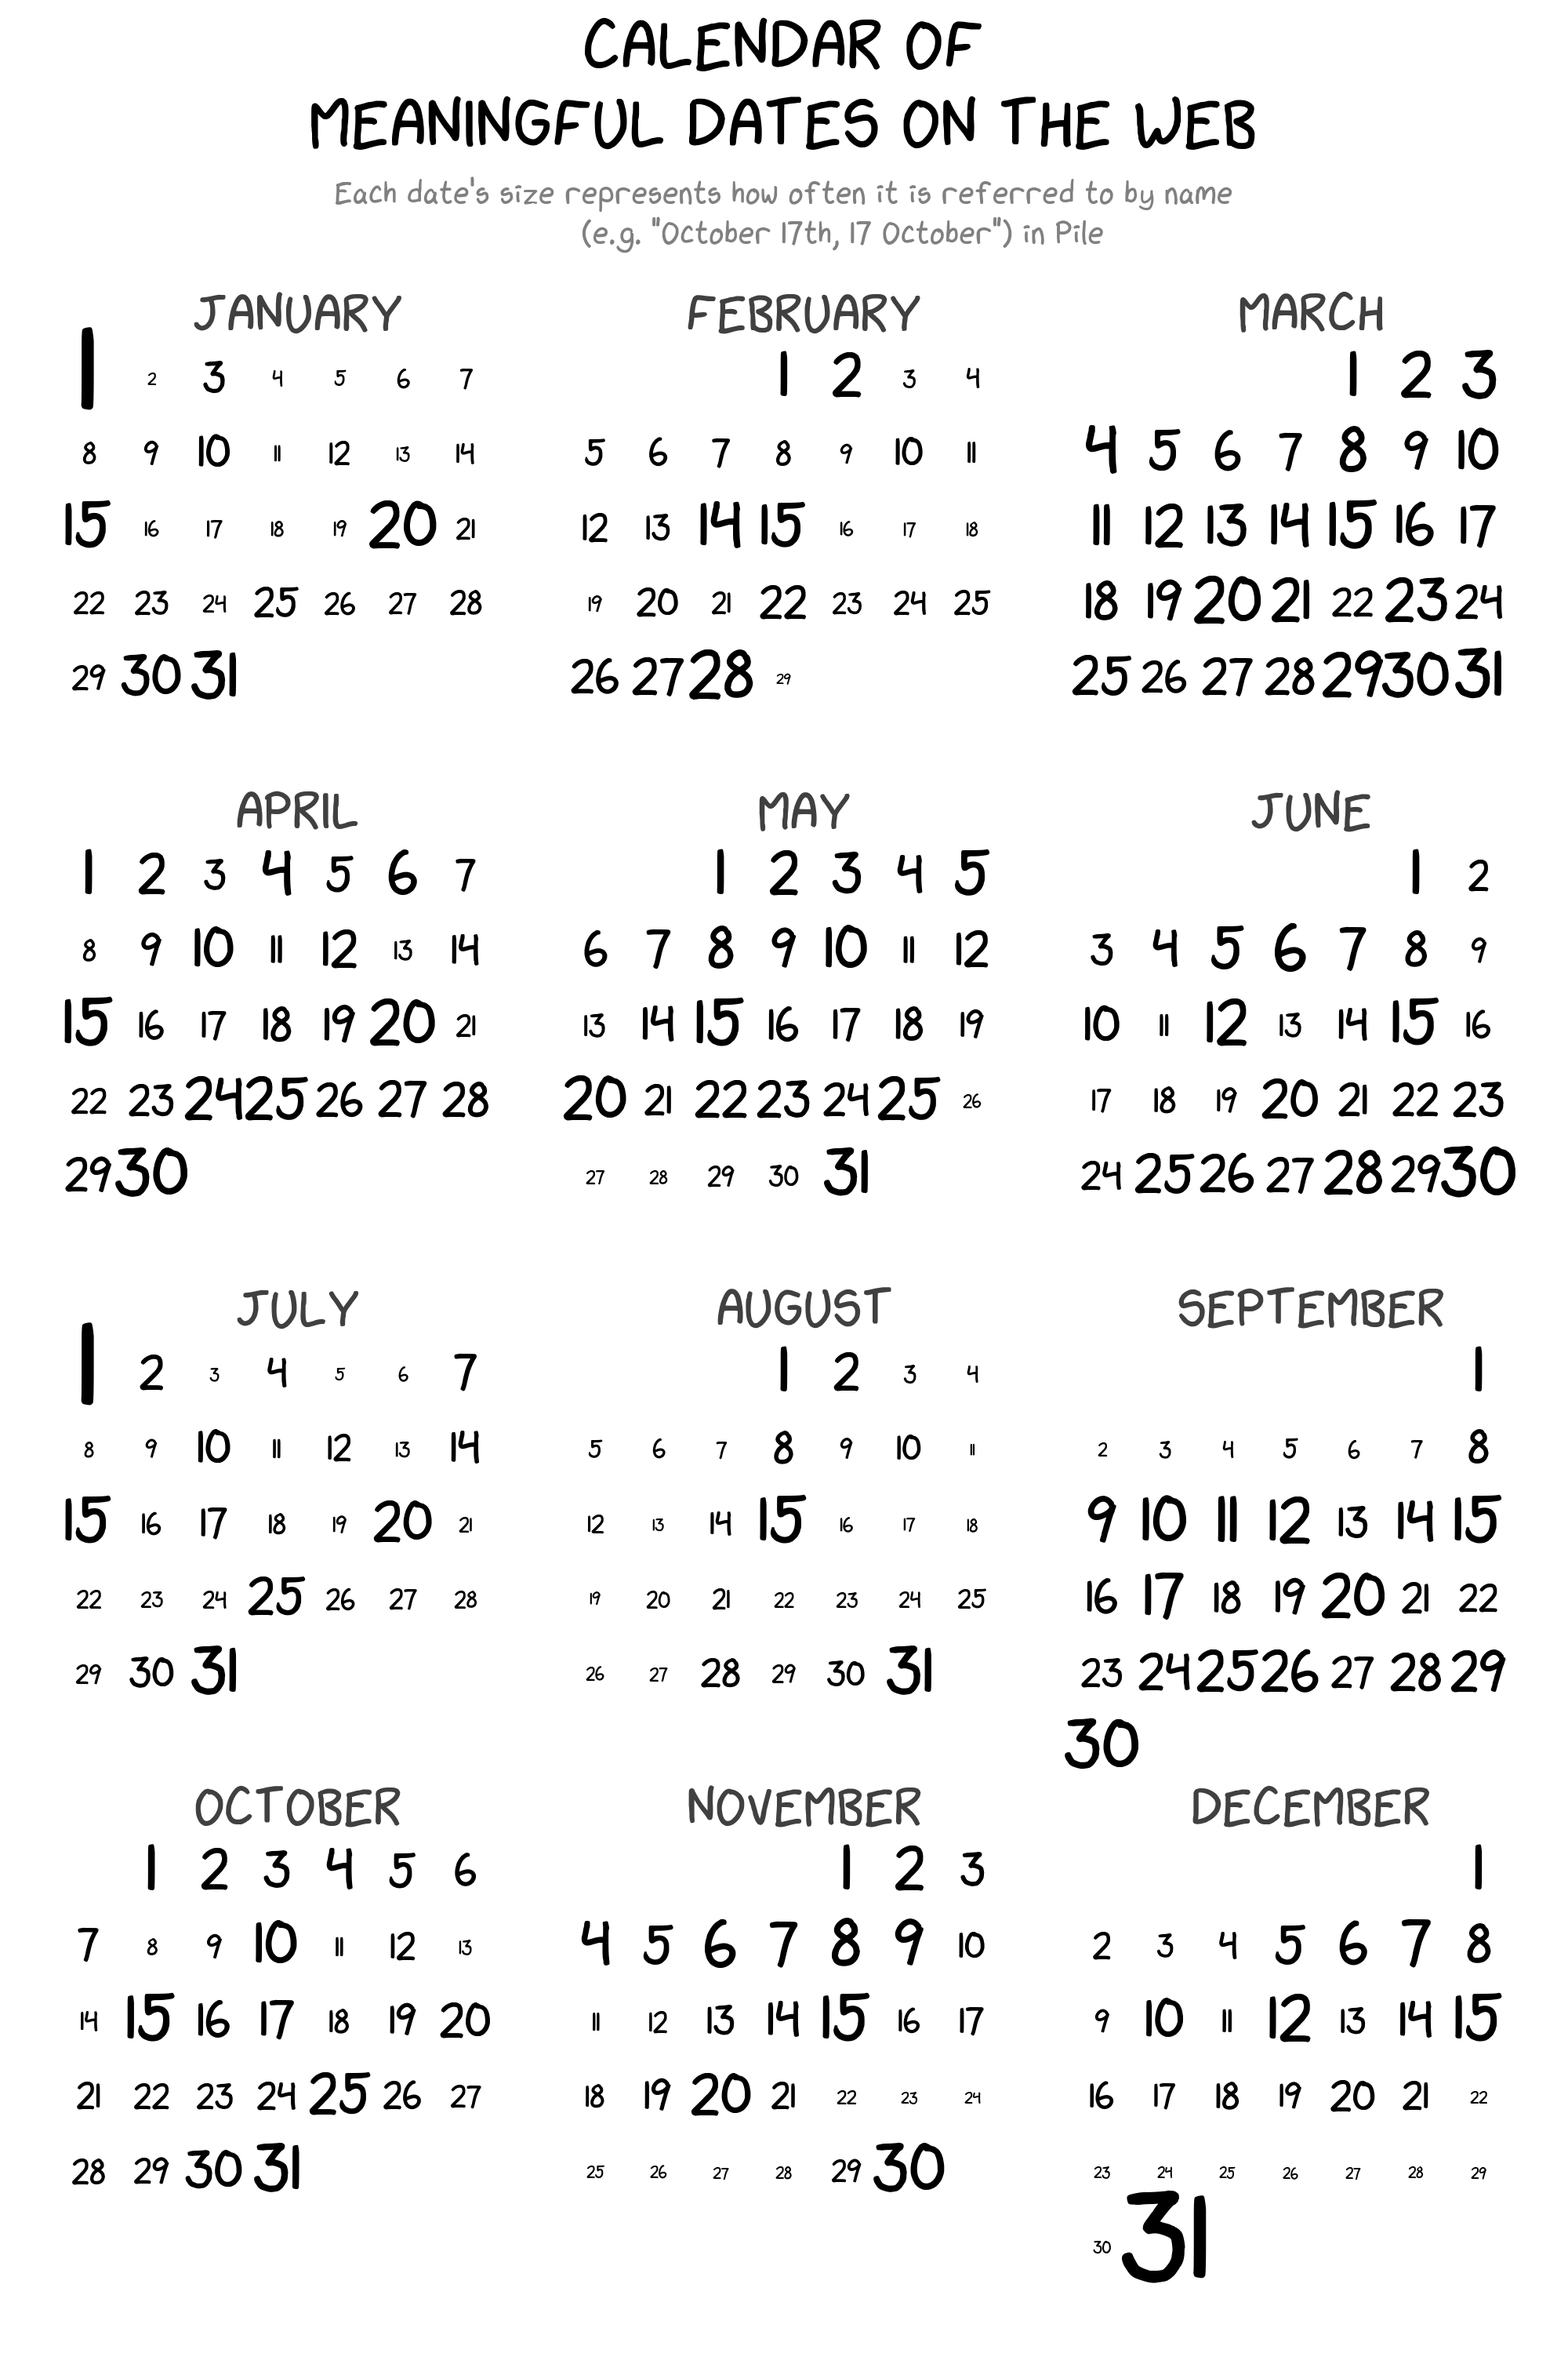
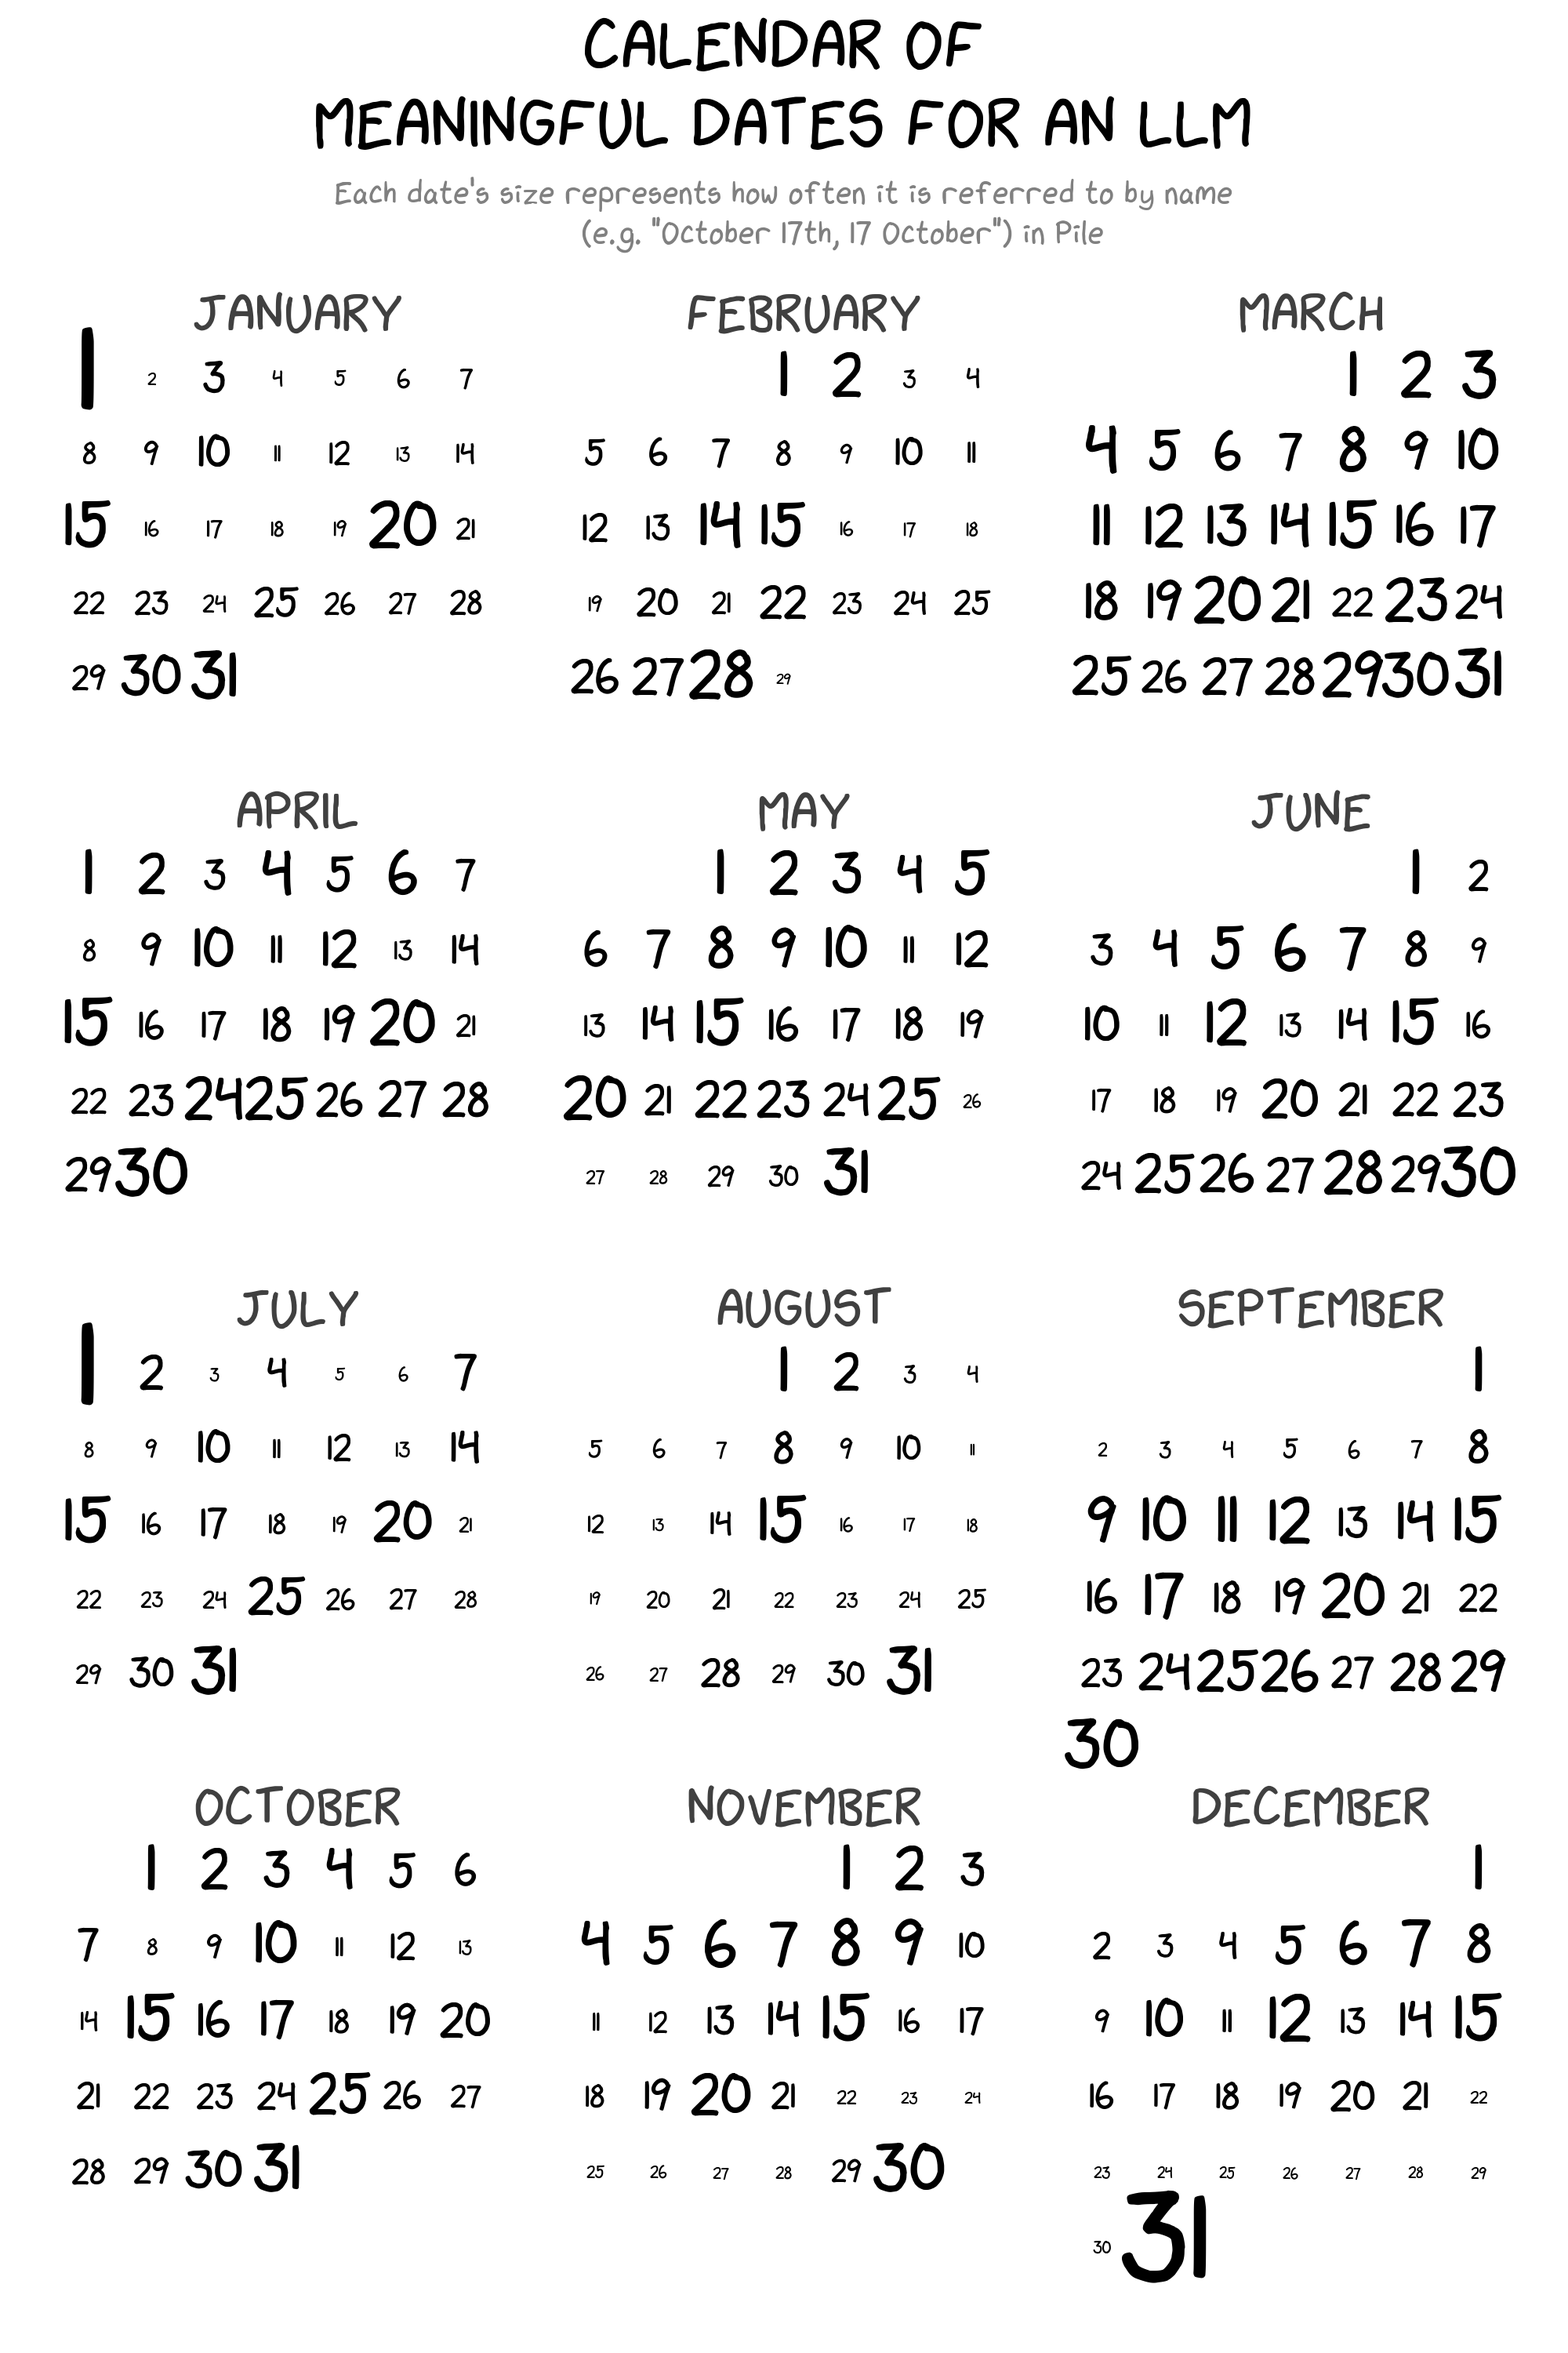
Fixed title typo for Pile figure

Changed region(s): [[0.186, 0.031, 0.806, 0.062]]

diff --git a/visualize_dates.py b/visualize_dates.py
@@ -52,7 +52,7 @@ def main():
         fig.patch.set_facecolor("white")
 
         fig.suptitle(
-            "CALENDAR OF\nMEANINGFUL DATES ON THE WEB",
+            TITLE,
             fontsize=32,
             fontweight="bold",
             va="bottom",
